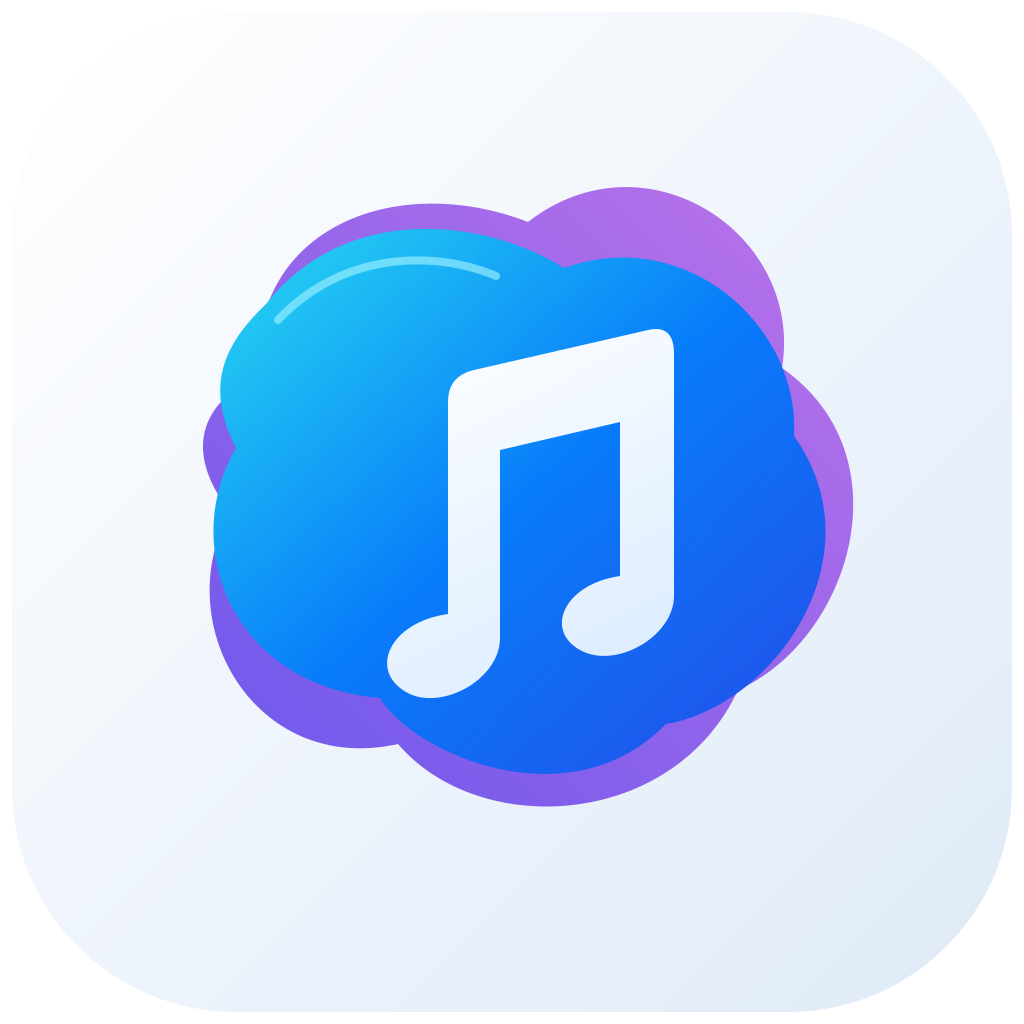
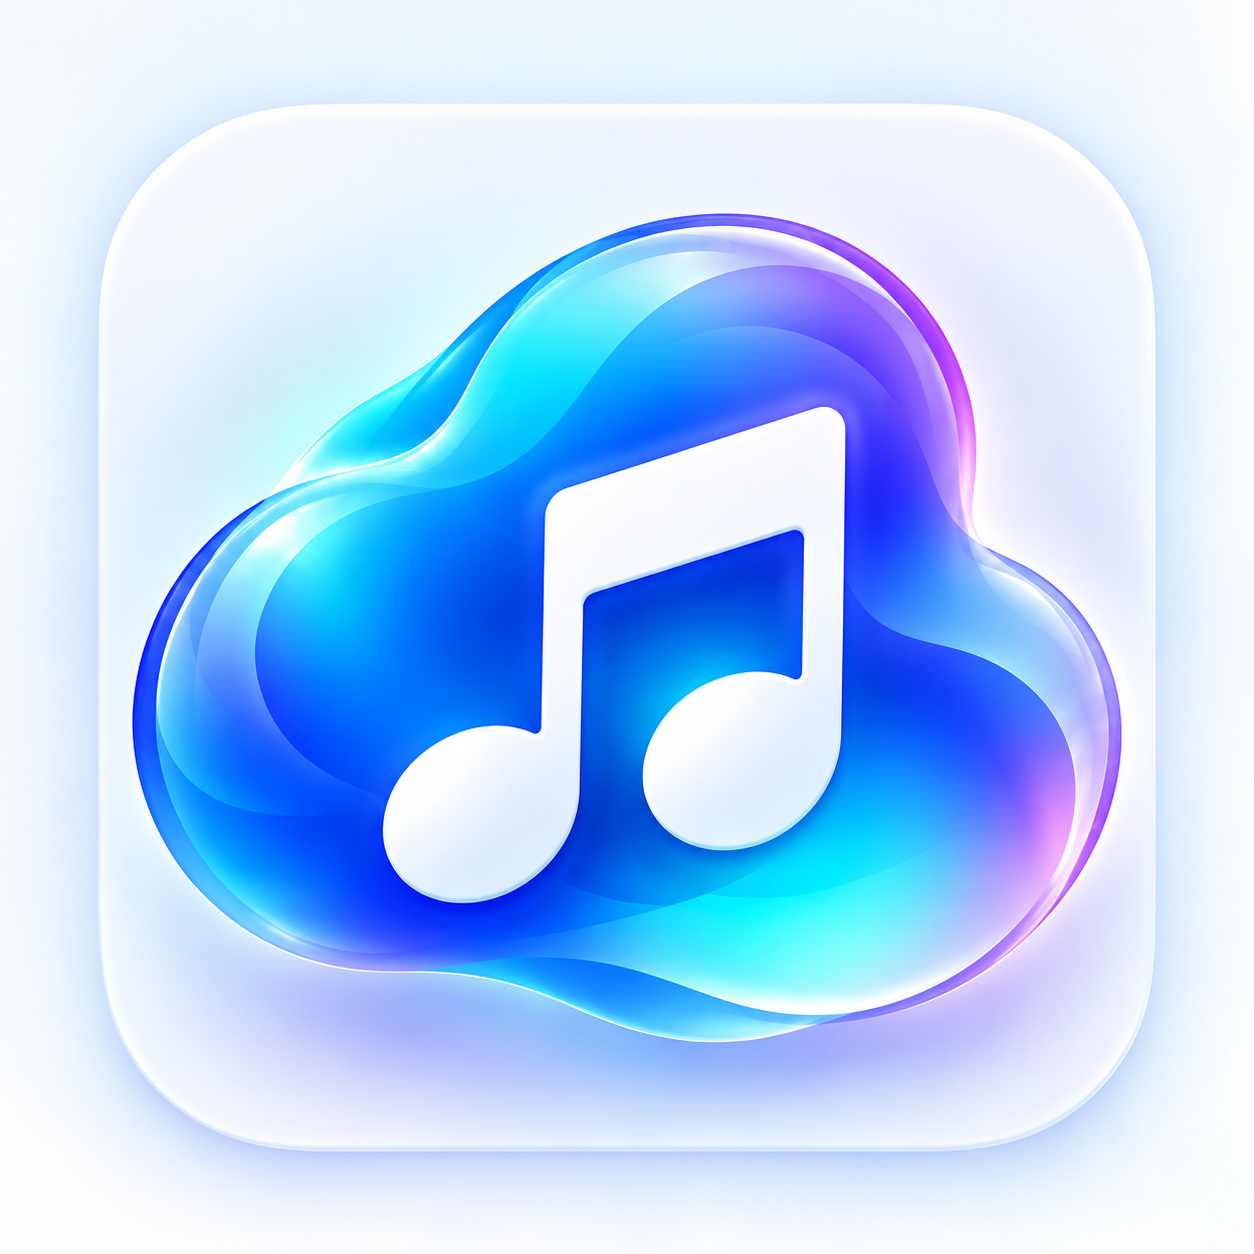
feat: 更名聆境音乐并加入品牌启动页
采用用户选定的A方案更新启动图标与电视横幅，保留正式位图和可编辑SVG重绘素材。首次启动展示浅色品牌页，返回与主题切换不重复展示。

diff --git a/java/com/yunying/music/MusicHomeActivity.java b/java/com/yunying/music/MusicHomeActivity.java
@@ -23,7 +23,7 @@ public class MusicHomeActivity extends Activity {
         Ui.place(canvas,label("音乐",29,Ui.TEXT),48,34,300,44);
         String[] kinds={"clock","library","equalizer","search"};String[] descriptions={"最近播放","音乐资料库","正在播放","搜索"};
         for(int i=0;i<4;i++){final int index=i;TextView icon=new IconTextView(this,i==2?"nowPlaying":kinds[i]);icon.setText(descriptions[i]);icon.setTextColor(Ui.textStates(Ui.TEXT_ON_LIGHT,Ui.TEXT));icon.setGravity(Gravity.CENTER);icon.setFocusable(true);icon.setClickable(true);icon.setBackground(Ui.states(Ui.round(0x18202020,this,30),Ui.focusRing(this,30),null));icon.setOnClickListener(v->{if(index==0)openLibrary(4,0);else if(index==1)overview();else if(index==2)openPlayer();else Ui.open(this,new Intent(this,SearchActivity.class));});Ui.place(canvas,icon,586+i*56,37,34,34);}
-        TextView avatar=Ui.action(this,"云",19,v->overview());avatar.setBackground(Ui.states(Ui.round(Ui.PANEL,this,30),Ui.focusRing(this,30),null));avatar.setTextColor(Ui.textStates(Ui.TEXT_ON_LIGHT,Ui.TEXT));Ui.place(canvas,avatar,810,37,34,34);Ui.place(canvas,label("云影音乐",17,Ui.TEXT2),864,44,90,26);
+        TextView avatar=Ui.action(this,"云",19,v->overview());avatar.setBackground(Ui.states(Ui.round(Ui.PANEL,this,30),Ui.focusRing(this,30),null));avatar.setTextColor(Ui.textStates(Ui.TEXT_ON_LIGHT,Ui.TEXT));Ui.place(canvas,avatar,810,37,34,34);Ui.place(canvas,label("聆境音乐",17,Ui.TEXT2),864,44,90,26);
         HorizontalScrollView tabScroll=new HorizontalScrollView(this);tabScroll.setHorizontalScrollBarEnabled(false);tabScroll.setClipToPadding(false);
         LinearLayout tabRow=new LinearLayout(this);tabRow.setGravity(Gravity.CENTER_VERTICAL);tabRow.setPadding(Ui.dp(this,6),Ui.dp(this,4),Ui.dp(this,6),Ui.dp(this,4));tabScroll.addView(tabRow,new HorizontalScrollView.LayoutParams(-2,-1));
         List<HomeModules.Module> homeTabs=HomeModules.all(this);
@@ -49,7 +49,7 @@ public class MusicHomeActivity extends Activity {
         tile("最近播放",recent.size(),recent,48,390,"clock",()->openLibrary(4,0));tile("我喜欢",favorites.size(),favorites,270,390,"heart",()->openLibrary(3,0));tile("我的歌单",playlist.isEmpty()?0:1,playlist,492,390,"library",()->openLibrary(6,0));
         Ui.place(canvas,label("设置",20,Ui.TEXT),48,586,200,30);
         String[] names={"检查更新","关于","其他设置"};String[] icons={"update","info","settings"};
-        for(int i=0;i<names.length;i++){final int index=i;LinearLayout card=new LinearLayout(this);card.setGravity(Gravity.CENTER);card.setFocusable(true);card.setClickable(true);card.setBackground(Ui.states(Ui.round(Ui.PANEL,this,12),Ui.focusRing(this,12),null));IconTextView icon=new IconTextView(this,icons[i]);icon.setIconFraction(MODULE_ICON_FRACTION);icon.setText(names[i]);icon.setTextColor(Ui.TEXT);card.addView(icon,new LinearLayout.LayoutParams(Ui.dp(this,MODULE_ICON_SIZE),Ui.dp(this,MODULE_ICON_SIZE)));TextView text=label(names[i],18,Ui.TEXT);LinearLayout.LayoutParams lp=new LinearLayout.LayoutParams(-2,-2);lp.leftMargin=Ui.dp(this,10);card.addView(text,lp);card.setOnFocusChangeListener((v,focused)->{text.setTextColor(focused?Ui.TEXT_ON_LIGHT:Ui.TEXT);icon.setTextColor(focused?Ui.TEXT_ON_LIGHT:Ui.TEXT);if(focused&&!restoringHome)viewport.postDelayed(()->{if(card.hasFocus())viewport.smoothScrollTo(0,Math.max(0,card.getBottom()+Ui.dp(this,48)-viewport.getHeight()));},100);});card.setOnClickListener(v->{if(index==0)message("检查更新","当前版本 2.0，通过新的安装包升级");else if(index==1)message("关于","云影音乐 2.0 · Android 电视音乐播放器");else openSettings(0);});Ui.place(canvas,card,48+(i%4)*222,628+(i/4)*140,198,112);}
+        for(int i=0;i<names.length;i++){final int index=i;LinearLayout card=new LinearLayout(this);card.setGravity(Gravity.CENTER);card.setFocusable(true);card.setClickable(true);card.setBackground(Ui.states(Ui.round(Ui.PANEL,this,12),Ui.focusRing(this,12),null));IconTextView icon=new IconTextView(this,icons[i]);icon.setIconFraction(MODULE_ICON_FRACTION);icon.setText(names[i]);icon.setTextColor(Ui.TEXT);card.addView(icon,new LinearLayout.LayoutParams(Ui.dp(this,MODULE_ICON_SIZE),Ui.dp(this,MODULE_ICON_SIZE)));TextView text=label(names[i],18,Ui.TEXT);LinearLayout.LayoutParams lp=new LinearLayout.LayoutParams(-2,-2);lp.leftMargin=Ui.dp(this,10);card.addView(text,lp);card.setOnFocusChangeListener((v,focused)->{text.setTextColor(focused?Ui.TEXT_ON_LIGHT:Ui.TEXT);icon.setTextColor(focused?Ui.TEXT_ON_LIGHT:Ui.TEXT);if(focused&&!restoringHome)viewport.postDelayed(()->{if(card.hasFocus())viewport.smoothScrollTo(0,Math.max(0,card.getBottom()+Ui.dp(this,48)-viewport.getHeight()));},100);});card.setOnClickListener(v->{if(index==0)message("检查更新","当前版本 2.0，通过新的安装包升级");else if(index==1)message("关于","聆境音乐 2.0 · Android 电视音乐播放器");else openSettings(0);});Ui.place(canvas,card,48+(i%4)*222,628+(i/4)*140,198,112);}
         Ui.installFocusMotion(root);
     }
     private void tile(String title,int count,List<Entry> data,float x,float y,String kind,Runnable click){

diff --git a/java/com/yunying/music/SplashView.java b/java/com/yunying/music/SplashView.java
@@ -1,0 +1,14 @@
+package com.yunying.music;
+import android.content.Context;
+import android.graphics.*;
+import android.view.View;
+/** 白色底与品牌蓝紫色漫射融合，文字独立绘制以保证清晰。 */
+final class SplashView extends View {
+ private final Paint paint=new Paint(3);private final Bitmap logo;
+ SplashView(Context c){super(c);logo=BitmapFactory.decodeResource(c.getResources(),R.drawable.brand_logo);setContentDescription("聆境音乐，让喜欢的音乐，陪伴每一刻");}
+ protected void onDraw(Canvas canvas){float w=getWidth(),h=getHeight(),scale=Math.min(w/960f,h/540f),cx=w/2,cy=h*.40f;
+ canvas.drawColor(0xFFF8FBFF);paint.setShader(new RadialGradient(cx,cy,Math.max(w,h)*.53f,new int[]{0x75C0EAFB,0x30D9CFF5,0x00FFFFFF},new float[]{0,.5f,1},Shader.TileMode.CLAMP));canvas.drawRect(0,0,w,h,paint);paint.setShader(null);
+ float size=220*scale;canvas.drawBitmap(logo,null,new RectF(cx-size/2,cy-size/2,cx+size/2,cy+size/2),paint);
+ paint.setTextAlign(Paint.Align.CENTER);paint.setTypeface(Typeface.create("sans-serif-medium",Typeface.NORMAL));paint.setTextSize(27*scale);paint.setColor(0xFF203D5A);canvas.drawText("聆境音乐",cx,cy+143*scale,paint);paint.setTypeface(Typeface.DEFAULT);paint.setTextSize(15*scale);paint.setColor(0xFF526E87);canvas.drawText("让喜欢的音乐，陪伴每一刻",cx,cy+177*scale,paint);
+ }
+}

diff --git a/java/com/yunying/music/MainActivity.java b/java/com/yunying/music/MainActivity.java
@@ -6,6 +6,11 @@ import android.os.Bundle;
 public class MainActivity extends MusicHomeActivity {
     @Override public void onCreate(Bundle state) {
         super.onCreate(state);
+        if(state==null&&android.content.Intent.ACTION_MAIN.equals(getIntent().getAction())){
+            final android.view.ViewGroup content=findViewById(android.R.id.content);
+            final SplashView splash=new SplashView(this);content.addView(splash,new android.view.ViewGroup.LayoutParams(-1,-1));
+            splash.postDelayed(()->{if(isFinishing()||isDestroyed())return;if(Ui.motionEnabled(this))splash.animate().alpha(0).setDuration(240).withEndAction(()->content.removeView(splash)).start();else content.removeView(splash);},1100);
+        }
         try {
             if (android.os.Build.VERSION.SDK_INT >= 33 && checkSelfPermission("android.permission.POST_NOTIFICATIONS") != android.content.pm.PackageManager.PERMISSION_GRANTED)
                 requestPermissions(new String[]{"android.permission.POST_NOTIFICATIONS"},7);

diff --git a/java/com/yunying/music/ExitConfirmation.java b/java/com/yunying/music/ExitConfirmation.java
@@ -6,7 +6,7 @@ import android.content.Intent;
 /** 退出属于显式操作，返回默认停留在应用。 */
 final class ExitConfirmation {
     static void show(Activity activity) {
-        new TvChoiceDialog(activity,"退出云影音乐？",new String[]{"继续使用","退出并停止播放"},-1,index->{
+        new TvChoiceDialog(activity,"退出聆境音乐？",new String[]{"继续使用","退出并停止播放"},-1,index->{
             if(index==1){activity.stopService(new Intent(activity,PlayerService.class));activity.finishAffinity();}
         }).show();
     }

diff --git a/java/com/yunying/music/PlayerService.java b/java/com/yunying/music/PlayerService.java
@@ -148,7 +148,7 @@ public class PlayerService extends Service {
         createChannel();
         initSession();
         try {
-            startForeground(NOTIF_ID, buildNotification("云影音乐", "准备就绪", false));
+            startForeground(NOTIF_ID, buildNotification("聆境音乐", "准备就绪", false));
         } catch (Throwable ignored) { }
     }
 

diff --git a/assets/README.md b/assets/README.md
@@ -1,0 +1,5 @@
+# 聆境音乐品牌素材
+
+app-icon.png：用户选择A方案的正式高光位图，用于启动图标和电视横幅。
+app-icon.svg：可编辑矢量重绘版本；保留云朵、音符和渐变，不含嵌入位图，光学细节与生成位图不同。
+lingjing-logo.svg：去除方形底板的透明矢量标志。

diff --git a/PRODUCT.md b/PRODUCT.md
@@ -1,4 +1,4 @@
-# 云影音乐
+# 聆境音乐
 
 1.5：支持创建相声、听书、音乐等首页模块，独立导入和保存目录内容，支持重命名、排序与删除，删除不影响服务器源文件。歌曲、队列、目录、搜索与分类网格使用虚拟列表，视图数量不随数据总量增长。
 

diff --git a/README.md b/README.md
@@ -1,4 +1,4 @@
-# 云影音乐 · Android 电视播放器 2.0
+# 聆境音乐 · Android 电视播放器 2.0
 
 2.0：在线匹配仅更新歌词与封面，首次播放、列表预览及重新匹配均不覆盖歌名和歌手。
 
